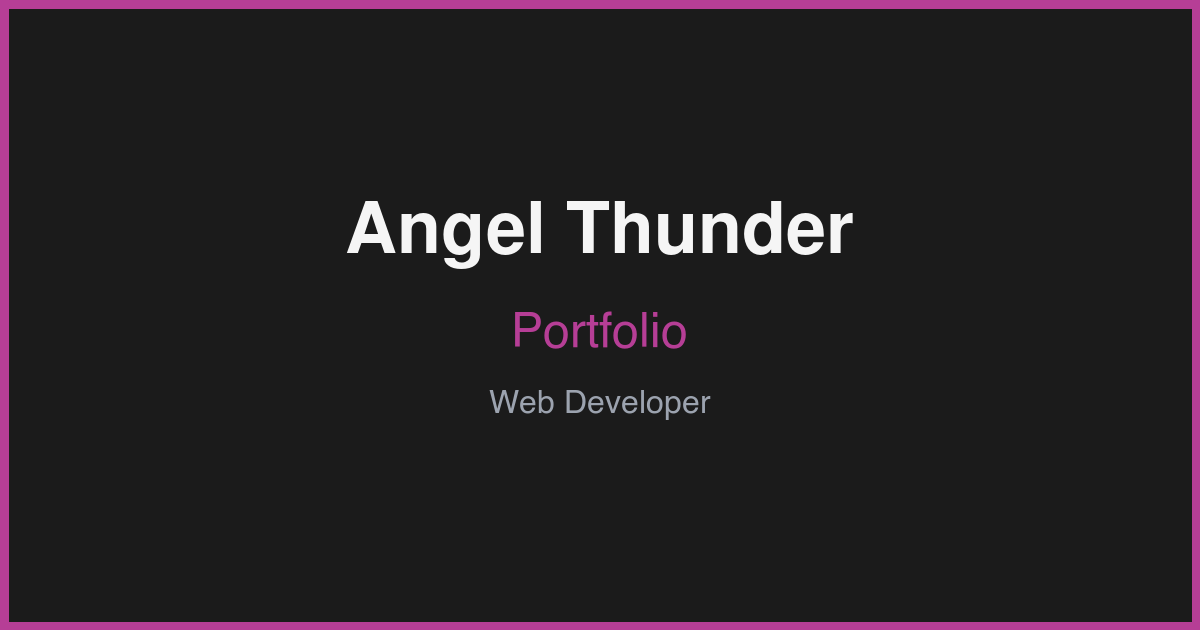
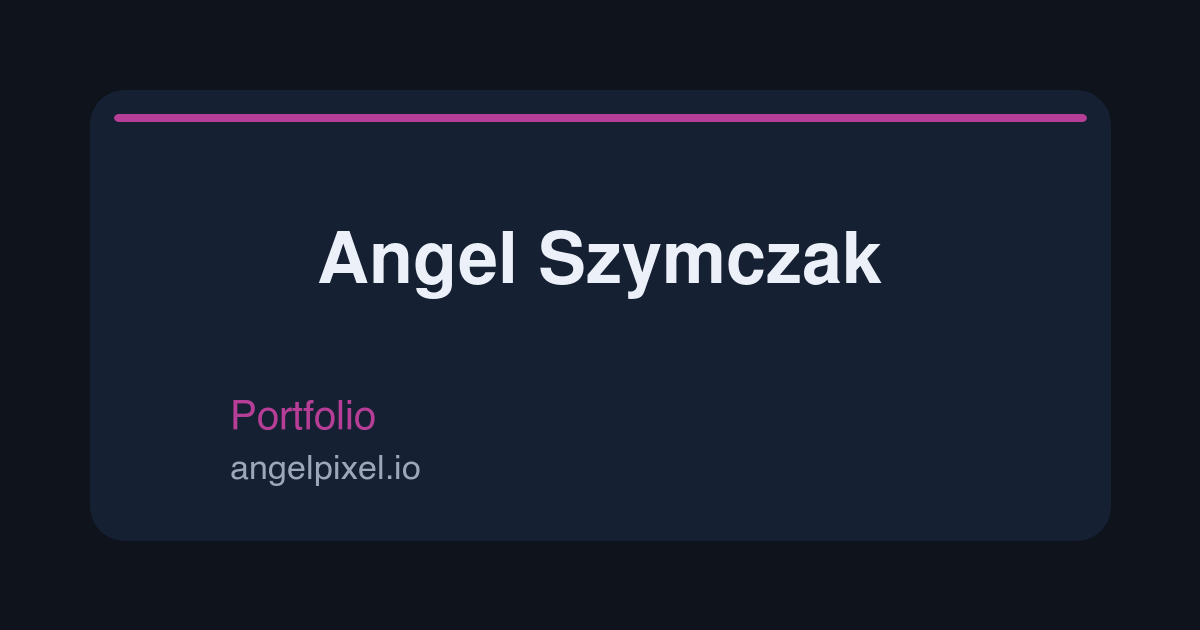
fix: align public identity names and GitHub owner

diff --git a/src/domains/project/model/mock.ts b/src/domains/project/model/mock.ts
@@ -31,7 +31,7 @@ const projectsMock: ProjectModel[] = [
     outcomes:
       "Achieved 50% faster load times compared to similar apps through optimized data fetching and caching strategies.",
     demo: "https://crypto-screener-demo.com",
-    repository: "https://github.com/AngelThunder/crypto-screener",
+    repository: "https://github.com/angelpixel-core/crypto-screener",
     img: "/images/projects/crypto-screener-cover-image.jpg",
     screenshots: ["/images/projects/crypto-screener-cover-image.jpg"],
     tags: "Realtime Market Analytics • BackOffice • React • Tailwind • Context API",
@@ -70,7 +70,7 @@ const projectsMock: ProjectModel[] = [
     outcomes:
       "Lighthouse score of 95+ across all metrics with perfect accessibility rating.",
     demo: "https://portfolio-demo.com",
-    repository: "https://github.com/AngelThunder/portfolio",
+    repository: "https://github.com/angelpixel-core/portfolio",
     img: "/images/projects/portfolio-cover-image.jpg",
     tags: "Web Site • JavaScript • NextJS",
     featured: false,
@@ -88,7 +88,7 @@ const projectsMock: ProjectModel[] = [
       "A full-featured blog platform designed specifically for developers, featuring MDX support for interactive code examples, syntax highlighting, and a clean reading experience. Includes features like article search, category filtering, reading time estimates, and social sharing capabilities. Built with SEO best practices for maximum content discoverability.",
     technologies: ["Next.js", "MDX", "Tailwind CSS", "Prisma", "PostgreSQL"],
     demo: "https://devdreaming-demo.com",
-    repository: "https://github.com/AngelThunder/devdreaming",
+    repository: "https://github.com/angelpixel-core/devdreaming",
     img: "/images/projects/devdreaming.jpg",
     tags: "Blog • JavaScript • NextJS",
     featured: false,
@@ -115,7 +115,7 @@ const projectsMock: ProjectModel[] = [
     outcomes:
       "Processed over 2 000 test transactions on Goerli testnet with zero failed mints.",
     demo: "https://nft-marketplace-demo.com",
-    repository: "https://github.com/AngelThunder/nft-marketplace",
+    repository: "https://github.com/angelpixel-core/nft-marketplace",
     img: "/images/projects/nft-collection-website-cover-image.jpg",
     tags: "Marketplace Systems • Web3 • Ethereum",
     featured: true,
@@ -154,7 +154,7 @@ const projectsMock: ProjectModel[] = [
       "Figma",
     ],
     demo: "https://agency-website-demo.com",
-    repository: "https://github.com/AngelThunder/agency-website",
+    repository: "https://github.com/angelpixel-core/agency-website",
     img: "/images/projects/agency-website-cover-image.jpg",
     tags: "Web Site • TypeScript • NextJS",
     featured: false,
@@ -174,7 +174,7 @@ const projectsMock: ProjectModel[] = [
     outcomes:
       "Reduced cart abandonment by 30% through streamlined one-page checkout flow.",
     demo: "https://fashion-studio-demo.com",
-    repository: "https://github.com/AngelThunder/fashion-studio",
+    repository: "https://github.com/angelpixel-core/fashion-studio",
     img: "/images/projects/fashion-studio-website.jpg",
     tags: "E-commerce • JavaScript • React",
     featured: false,

diff --git a/src/lib/seo/__tests__/article-jsonld.test.ts b/src/lib/seo/__tests__/article-jsonld.test.ts
@@ -72,7 +72,7 @@ describe("generateArticleJsonLd", () => {
     const jsonLd = generateArticleJsonLd(mockArticle, siteUrl);
 
     expect(jsonLd.author["@type"]).toBe("Person");
-    expect(jsonLd.author.name).toBe("Angel Thunder");
+    expect(jsonLd.author.name).toBe("Angel Szymczak");
   });
 
   it("includes publisher information", () => {
@@ -101,7 +101,10 @@ describe("renderJsonLdScript", () => {
     expect(parsed["@context"]).toBe("https://schema.org");
     expect(parsed["@type"]).toBe("Article");
     expect(parsed.headline).toBe("Test Article Title");
-    expect(parsed.author).toEqual({ "@type": "Person", name: "Angel Thunder" });
+    expect(parsed.author).toEqual({
+      "@type": "Person",
+      name: "Angel Szymczak",
+    });
     expect(parsed.publisher.name).toBe("Portfolio");
   });
 });

diff --git a/src/app/layout.tsx b/src/app/layout.tsx
@@ -54,7 +54,7 @@ export const metadata: Metadata = {
     title: SITE_TITLE,
     description: SITE_DESCRIPTION,
     url: "/",
-    siteName: `Angel Thunder Portfolio`,
+    siteName: `${SITE_AUTHOR_NAME} Portfolio`,
     images: [OG_IMAGE],
     locale: "en_US",
     type: "website",

diff --git a/src/lib/seo/article-jsonld.ts b/src/lib/seo/article-jsonld.ts
@@ -43,7 +43,7 @@ export function generateArticleJsonLd(
     datePublished: article.published_at,
     author: {
       "@type": "Person",
-      name: "Angel Thunder",
+      name: "Angel Szymczak",
     },
     publisher: {
       "@type": "Organization",

diff --git a/docs/project-overview.md b/docs/project-overview.md
@@ -4,17 +4,18 @@
 
 ## Project Identity
 
-| Attribute | Value |
-|-----------|-------|
-| **Name** | portfolio-frontend-nextjs |
-| **Type** | Web Application (Portfolio) |
-| **Status** | Brownfield (active development) |
-| **Framework** | Next.js 14.2.33 |
-| **Architecture** | DDD + Atomic Design |
+| Attribute        | Value                           |
+| ---------------- | ------------------------------- |
+| **Name**         | portfolio-frontend-nextjs       |
+| **Type**         | Web Application (Portfolio)     |
+| **Status**       | Brownfield (active development) |
+| **Framework**    | Next.js 14.2.33                 |
+| **Architecture** | DDD + Atomic Design             |
 
 ## Purpose
 
 A modern **personal portfolio website** showcasing:
+
 - Professional profile and biography
 - Work experience and education history
 - Portfolio projects with demos/repositories
@@ -24,6 +25,7 @@ A modern **personal portfolio website** showcasing:
 ## Key Features
 
 ### Implemented
+
 - Responsive design with Tailwind CSS
 - Dark/light theme toggle
 - Animated page transitions (Framer Motion)
@@ -33,6 +35,7 @@ A modern **personal portfolio website** showcasing:
 - Contact chat panel
 
 ### Planned
+
 - Real API integration (Rails backend)
 - i18n/Multi-language support
 - Admin dashboard
@@ -40,32 +43,35 @@ A modern **personal portfolio website** showcasing:
 
 ## Tech Stack Summary
 
-| Category | Technology |
-|----------|------------|
-| **Frontend** | Next.js 14, React 18 |
-| **Styling** | Tailwind CSS 3.4 |
-| **State (UI)** | Redux Toolkit |
-| **State (Server)** | React Query v5 |
-| **Validation** | Zod |
-| **Animation** | Framer Motion |
-| **Database** | PostgreSQL (Vercel Postgres) |
-| **ORM** | Prisma |
-| **Testing** | Jest + React Testing Library |
-| **Containerization** | Docker + Docker Compose |
+| Category             | Technology                   |
+| -------------------- | ---------------------------- |
+| **Frontend**         | Next.js 14, React 18         |
+| **Styling**          | Tailwind CSS 3.4             |
+| **State (UI)**       | Redux Toolkit                |
+| **State (Server)**   | React Query v5               |
+| **Validation**       | Zod                          |
+| **Animation**        | Framer Motion                |
+| **Database**         | PostgreSQL (Vercel Postgres) |
+| **ORM**              | Prisma                       |
+| **Testing**          | Jest + React Testing Library |
+| **Containerization** | Docker + Docker Compose      |
 
 ## Architecture Highlights
 
 ### Domain-Driven Design
+
 - **11 bounded contexts** (profile, project, article, etc.)
 - Each domain has model, schema, queries
 - Mock-first development with real API support
 
 ### Atomic Design UI
+
 - **120+ components** across 5 levels
 - Atoms (77) → Molecules (27) → Organisms (13) → Overlays (2)
 - Skeleton loading states included
 
 ### Hybrid State Management
+
 - **Redux:** UI state (theme, menu, chat)
 - **React Query:** Server state (domain data)
 - Clear separation of concerns
@@ -74,50 +80,50 @@ A modern **personal portfolio website** showcasing:
 
 ### Key Directories
 
-| Path | Purpose |
-|------|---------|
-| `src/app/` | Next.js pages (App Router) |
-| `src/domains/` | Business logic (DDD) |
-| `src/ui/` | UI components (Atomic) |
-| `src/state/` | Redux store and slices |
-| `src/hooks/` | Custom React hooks |
-| `src/providers/` | Context providers |
-| `docs/` | Project documentation |
+| Path             | Purpose                    |
+| ---------------- | -------------------------- |
+| `src/app/`       | Next.js pages (App Router) |
+| `src/domains/`   | Business logic (DDD)       |
+| `src/ui/`        | UI components (Atomic)     |
+| `src/state/`     | Redux store and slices     |
+| `src/hooks/`     | Custom React hooks         |
+| `src/providers/` | Context providers          |
+| `docs/`          | Project documentation      |
 
 ### Key Files
 
-| File | Purpose |
-|------|---------|
-| `src/app/layout.jsx` | Root layout with providers |
-| `src/state/ReduxStore.js` | Redux store configuration |
-| `src/lib/httpRequest/config.js` | API configuration |
-| `tailwind.config.js` | Tailwind customization |
-| `docker-compose.yml` | Container orchestration |
+| File                            | Purpose                    |
+| ------------------------------- | -------------------------- |
+| `src/app/layout.jsx`            | Root layout with providers |
+| `src/state/ReduxStore.js`       | Redux store configuration  |
+| `src/lib/httpRequest/config.js` | API configuration          |
+| `tailwind.config.js`            | Tailwind customization     |
+| `docker-compose.yml`            | Container orchestration    |
 
 ### Development Commands
 
-| Command | Description |
-|---------|-------------|
-| `npm run dev` | Start dev server (port 9000) |
-| `npm run build` | Production build |
-| `npm test` | Run tests |
-| `make start-db` | Start database containers |
+| Command         | Description                  |
+| --------------- | ---------------------------- |
+| `npm run dev`   | Start dev server (port 9000) |
+| `npm run build` | Production build             |
+| `npm test`      | Run tests                    |
+| `make start-db` | Start database containers    |
 
 ## Documentation Index
 
-| Document | Description |
-|----------|-------------|
-| [Architecture](./architecture.md) | System design and patterns |
-| [Source Tree](./source-tree-analysis.md) | Directory structure |
-| [Component Inventory](./component-inventory.md) | UI component catalog |
-| [Data Models](./data-models.md) | Domain schemas |
-| [Development Guide](./development-guide.md) | Setup and workflow |
-| [Technical Research](./technical-research-frontend-portfolio-site.yaml) | Detailed analysis |
-| [PRD](./prd-frontend-portfolio-site.yaml) | Product requirements (draft) |
+| Document                                                                | Description                  |
+| ----------------------------------------------------------------------- | ---------------------------- |
+| [Architecture](./architecture.md)                                       | System design and patterns   |
+| [Source Tree](./source-tree-analysis.md)                                | Directory structure          |
+| [Component Inventory](./component-inventory.md)                         | UI component catalog         |
+| [Data Models](./data-models.md)                                         | Domain schemas               |
+| [Development Guide](./development-guide.md)                             | Setup and workflow           |
+| [Technical Research](./technical-research-frontend-portfolio-site.yaml) | Detailed analysis            |
+| [PRD](./prd-frontend-portfolio-site.yaml)                               | Product requirements (draft) |
 
 ## Team Context
 
-- **Owner:** Angel Thunder (AngelThunder)
+- **Owner:** Angel Szymczak (angelpixel-core)
 - **Backend:** Rails API (separate repository)
 - **Design System:** Custom Atomic Design
 - **Methodology:** BMAD (Brownfield)
